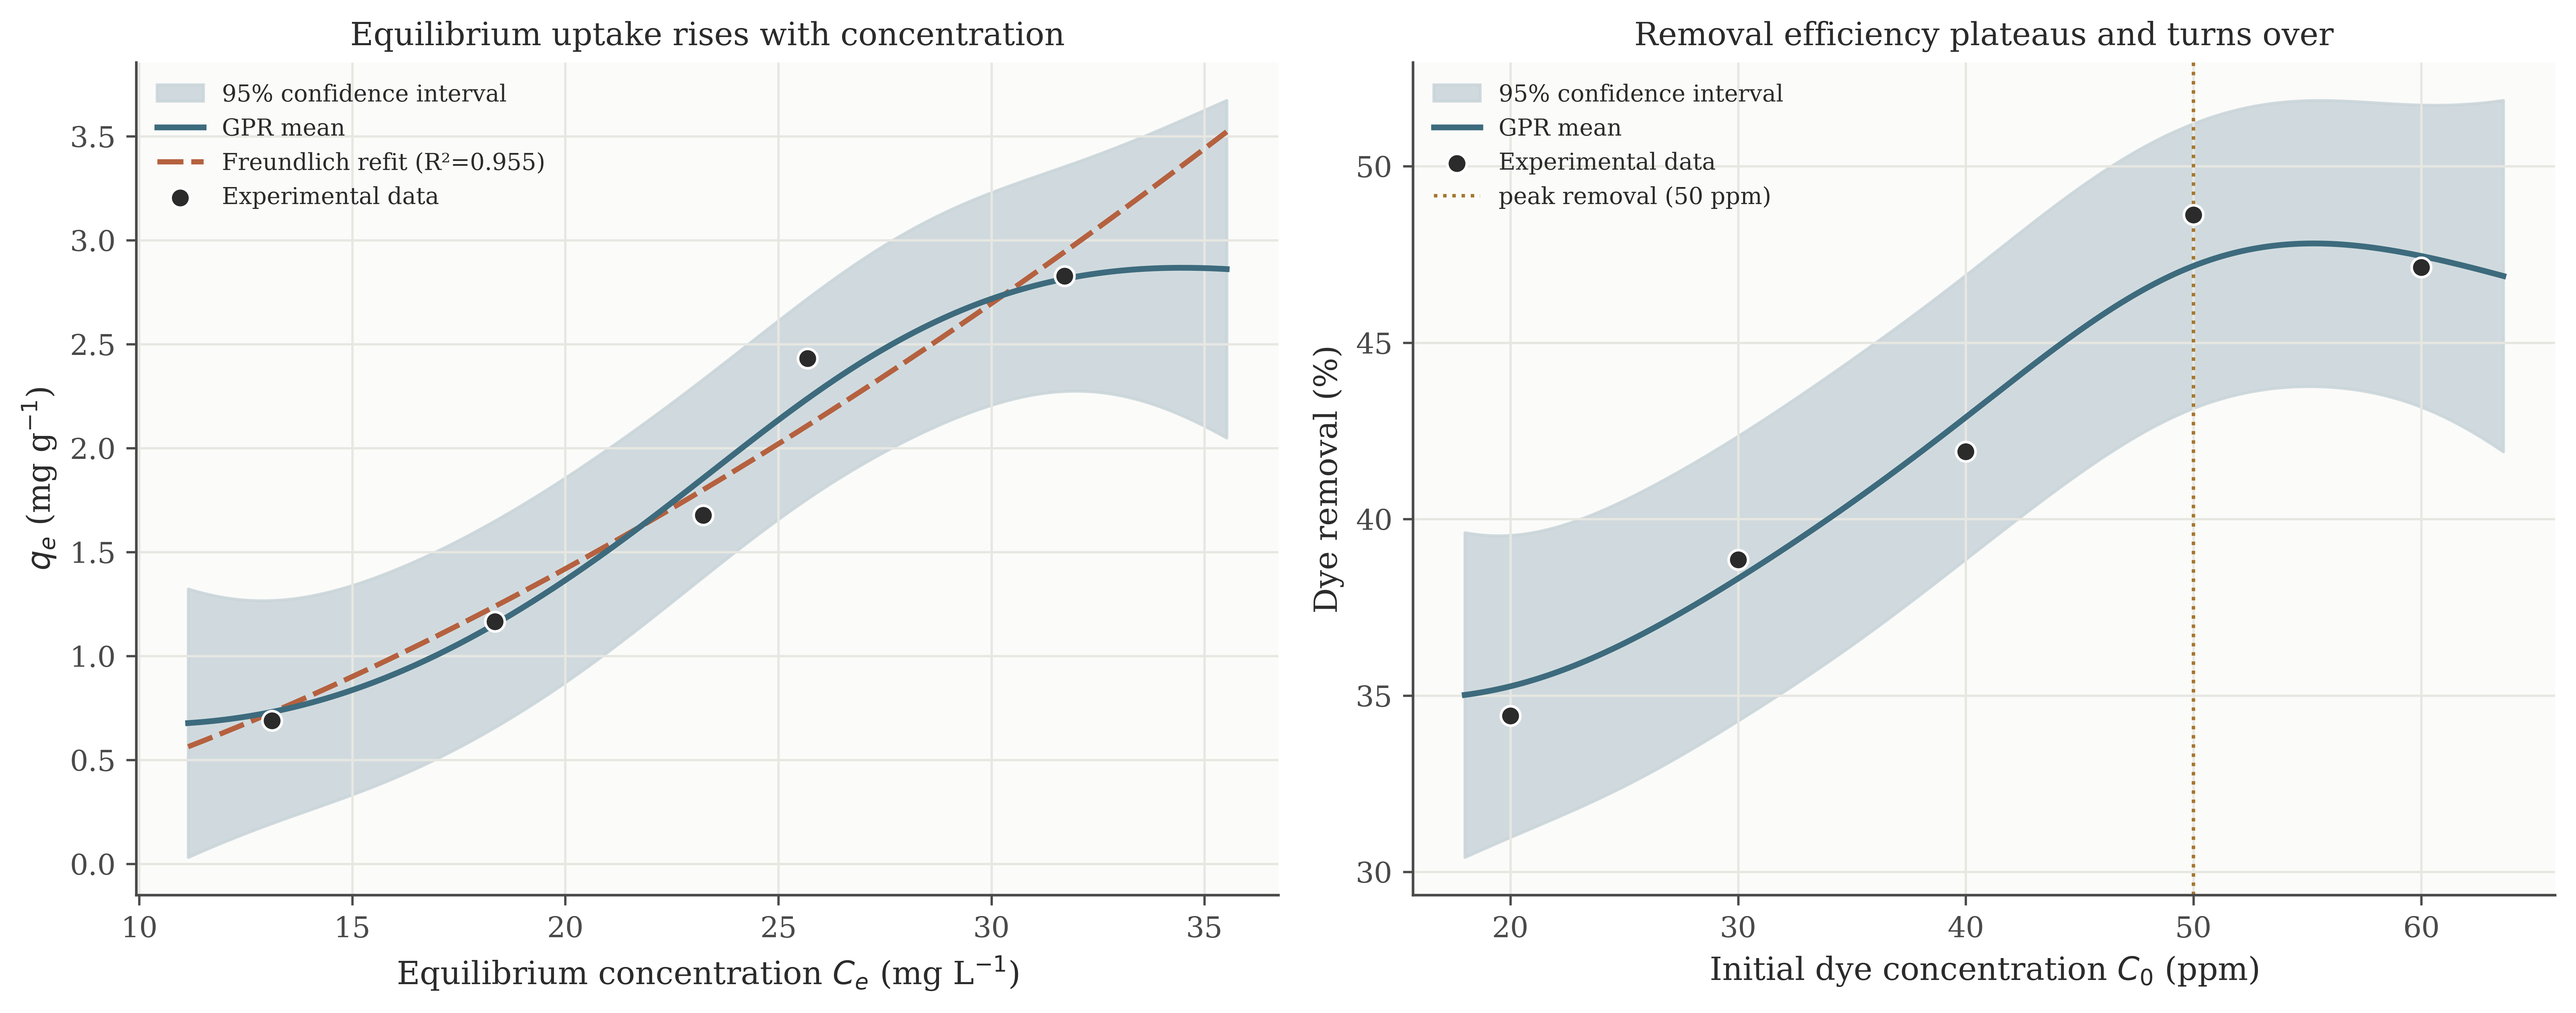
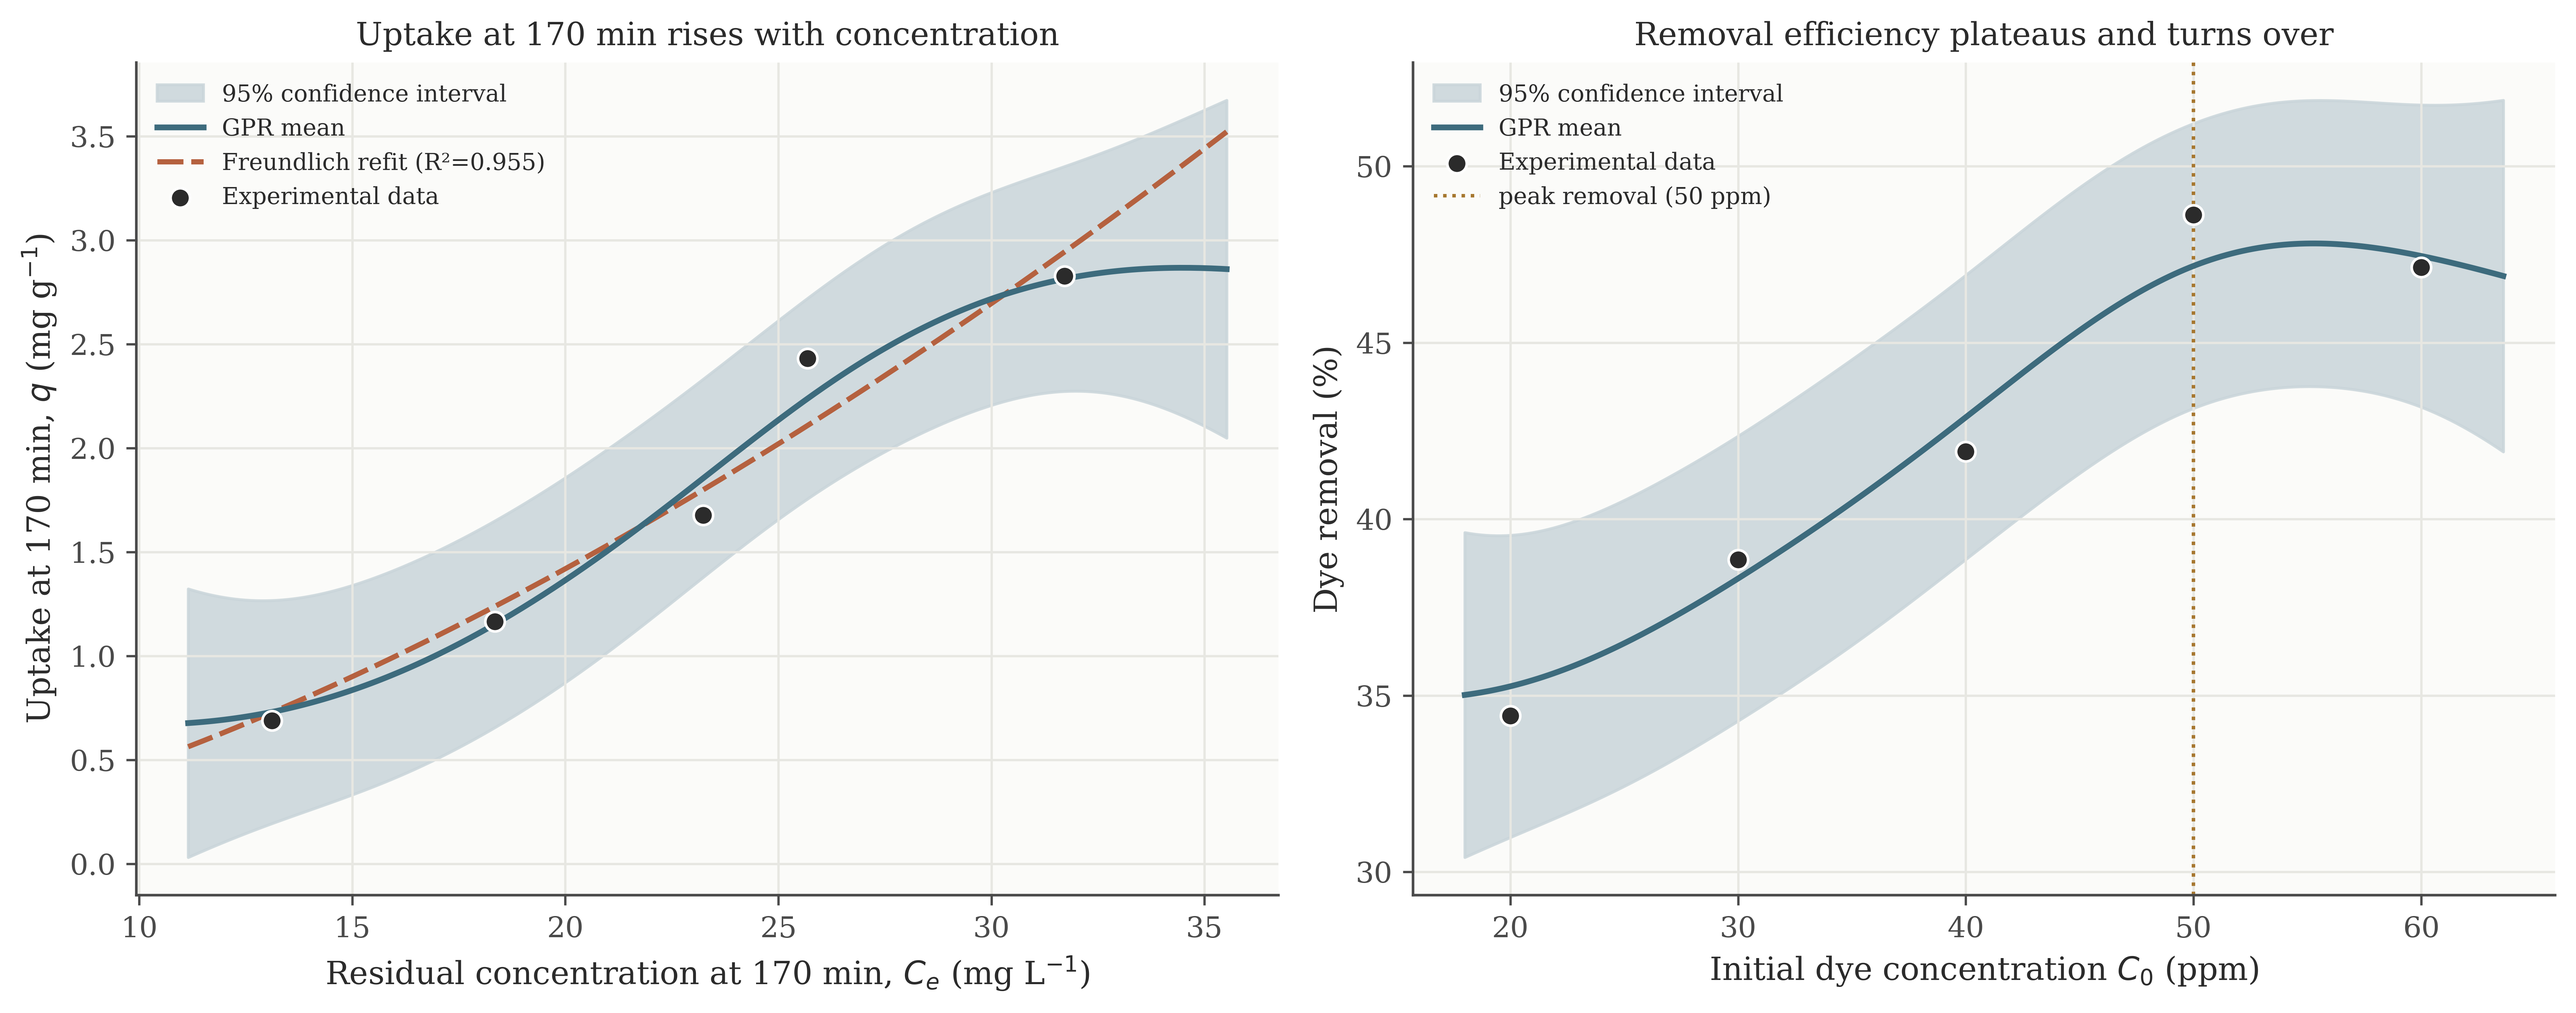
Label isotherm-arm data as uptake at 170 min (Reviewer 2 #5); document K_f and other units (Reviewer 3 G3)

diff --git a/src/wcf_biofilm/concentration_analysis.py b/src/wcf_biofilm/concentration_analysis.py
@@ -135,9 +135,9 @@ a1.plot(ce_f, freundlich(ce_f, *popt), ls=(0, (5, 1.5)), color=PAL["frnd"], lw=1
         label=f"Freundlich refit (R²={frnd_refit_r2:.3f})", zorder=3)
 a1.scatter(Ce, qe, color=PAL["data"], s=45, zorder=6, edgecolors="white", lw=0.9,
            label="Experimental data")
-a1.set_xlabel("Equilibrium concentration $C_e$ (mg L$^{-1}$)")
-a1.set_ylabel("$q_e$ (mg g$^{-1}$)")
-a1.set_title("Equilibrium uptake rises with concentration", fontsize=11)
+a1.set_xlabel("Residual concentration at 170 min, $C_e$ (mg L$^{-1}$)")
+a1.set_ylabel("Uptake at 170 min, $q$ (mg g$^{-1}$)")
+a1.set_title("Uptake at 170 min rises with concentration", fontsize=11)
 for sp in ["top", "right"]: a1.spines[sp].set_visible(False)
 a1.legend(fontsize=8, frameon=False)
 

diff --git a/src/wcf_biofilm/classical.py b/src/wcf_biofilm/classical.py
@@ -1,7 +1,10 @@
 """Classical kinetic / isotherm equations, fitting helpers and information criteria.
 
-Units: t [min], q [mg/g], C [mg/L], k1 [1/min], k2 [g/(mg min)], V/m [L/g].
+Units: t [min], q [mg/g], C [mg/L], k1 [1/min], k2 [g/(mg min)], V/m [L/g],
+K_f [(mg/g)(L/mg)^(1/n)], n [dimensionless], q_max [mg/g], K_L [L/mg].
 Freundlich is written q_e = K_f * C_e**(1/n), as in the manuscript.
+The isotherm-arm data are uptakes at t = 170 min, so fitted isotherm constants are
+apparent values at 170 min, not verified equilibrium constants.
 """
 import numpy as np
 from scipy.optimize import curve_fit, brentq, least_squares

diff --git a/src/wcf_biofilm/unified_surface_physics.py b/src/wcf_biofilm/unified_surface_physics.py
@@ -139,7 +139,7 @@ a2.plot(co_f, qe_f, color=PAL["frnd"], lw=2,
 a2.scatter(Co_iso, qe_iso, color=PAL["data"], s=50, zorder=6,
            edgecolors="white", lw=0.9, label="Isotherm data (10 g/L)")
 a2.set_xlabel("Initial concentration $C_0$ (ppm)")
-a2.set_ylabel("$q_e$ (mg g$^{-1}$)")
+a2.set_ylabel("$q$ (mg g$^{-1}$); data at 170 min")
 a2.set_title("Isotherm arm (in-sample)", fontsize=11)
 for sp in ["top", "right"]: a2.spines[sp].set_visible(False)
 a2.legend(fontsize=9, frameon=False)

diff --git a/src/wcf_biofilm/visualize_pinn.py b/src/wcf_biofilm/visualize_pinn.py
@@ -70,7 +70,7 @@ a2.plot(D["c_fine"], D["iso_curve"], color=PAL["iso"], lw=2,
 a2.scatter(D["c_iso"], D["q_iso"], color=PAL["data"], s=52, zorder=6,
            edgecolors="white", lw=0.9, label=f"Isotherm data (V/m={VM_ISO:.4f})")
 a2.set_xlabel("Initial concentration $C_0$ (ppm)")
-a2.set_ylabel("$q_e$ (mg g$^{-1}$)")
+a2.set_ylabel("Uptake at 170 min, $q$ (mg g$^{-1}$)")
 a2.set_title("(b) Isotherm arm", fontsize=11)
 a2.legend(fontsize=8.5, frameon=False)
 
